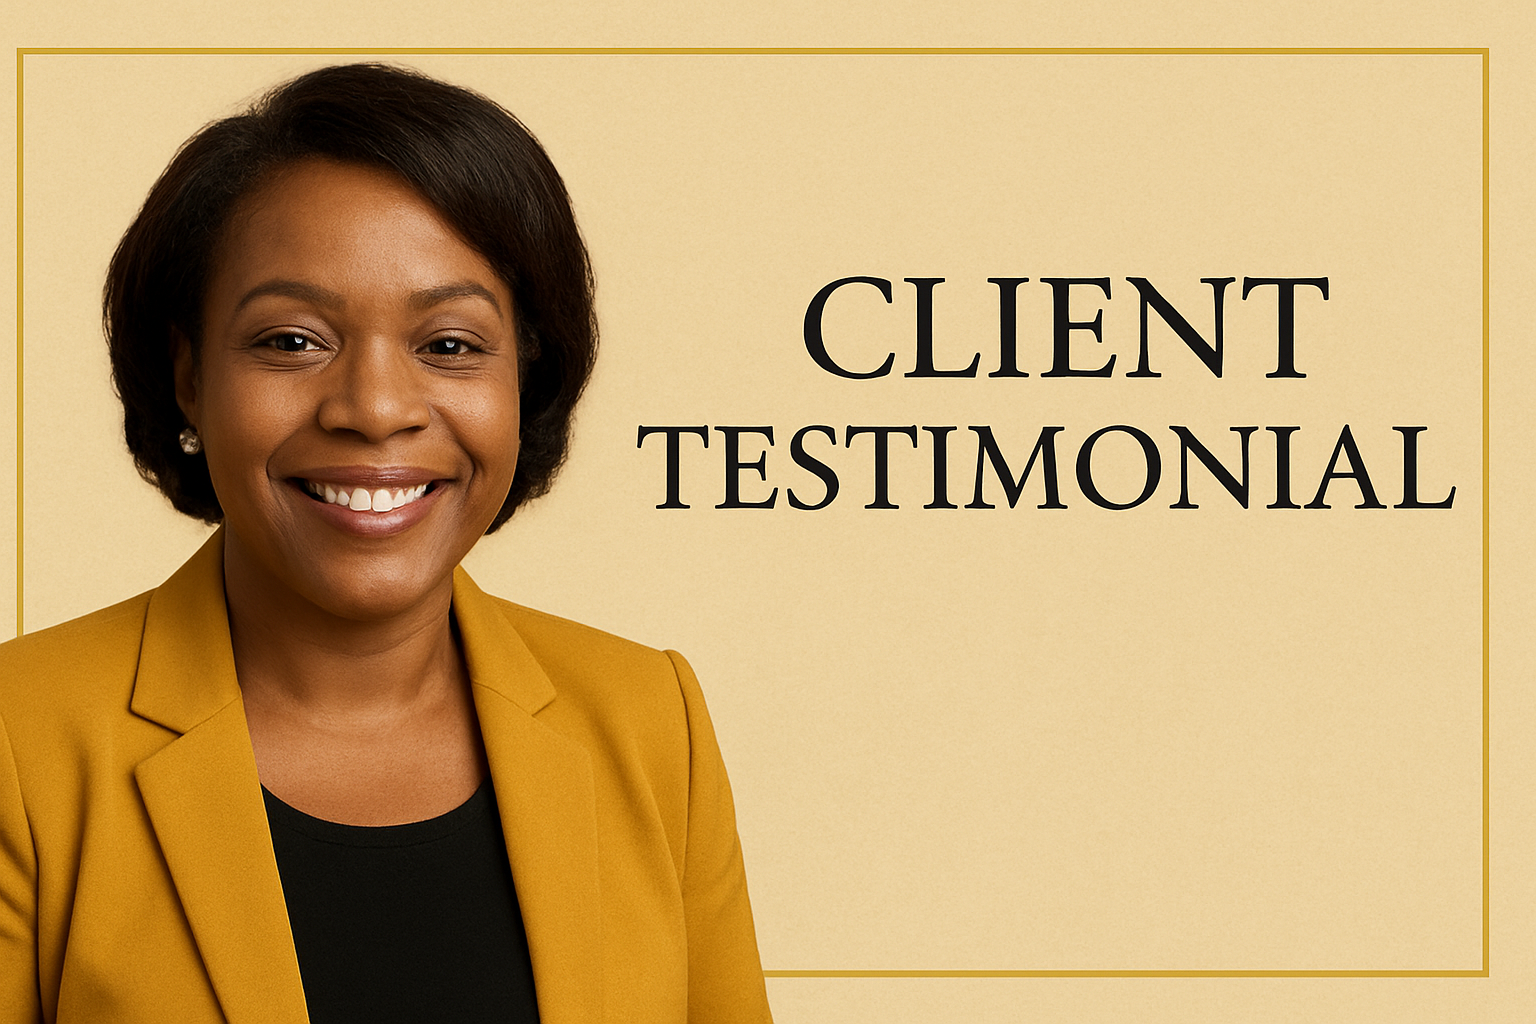
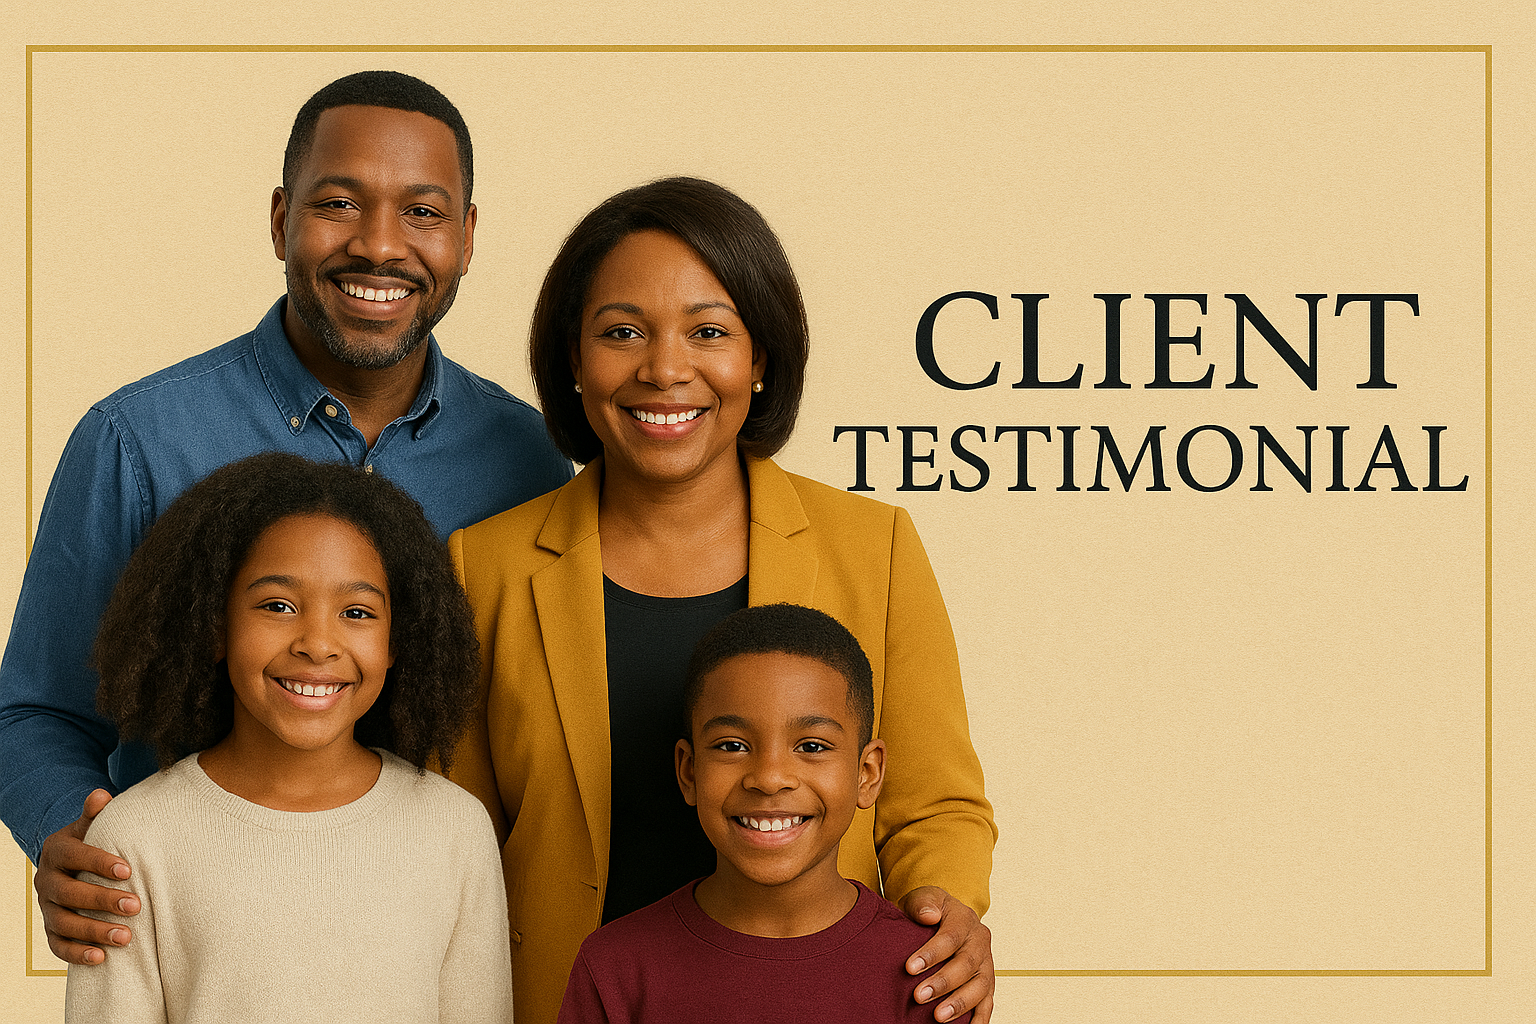
Post go-live edits, new testimonial video, new carousel image.

diff --git a/src/pages/Home.jsx b/src/pages/Home.jsx
@@ -4,7 +4,7 @@ import ImageCarousel from '../components/ImageCarousel';
 import slide1 from '../assets/award.jpg';
 import slide2 from '../assets/agent.jpg';
 import slide3 from '../assets/slide2-3.jpeg';
-import slide4 from '../assets/Dr.Monitta_photo.jpg';
+import slide4 from '../assets/Dr.Monitta_photo.png';
 
 
 function Home() {
